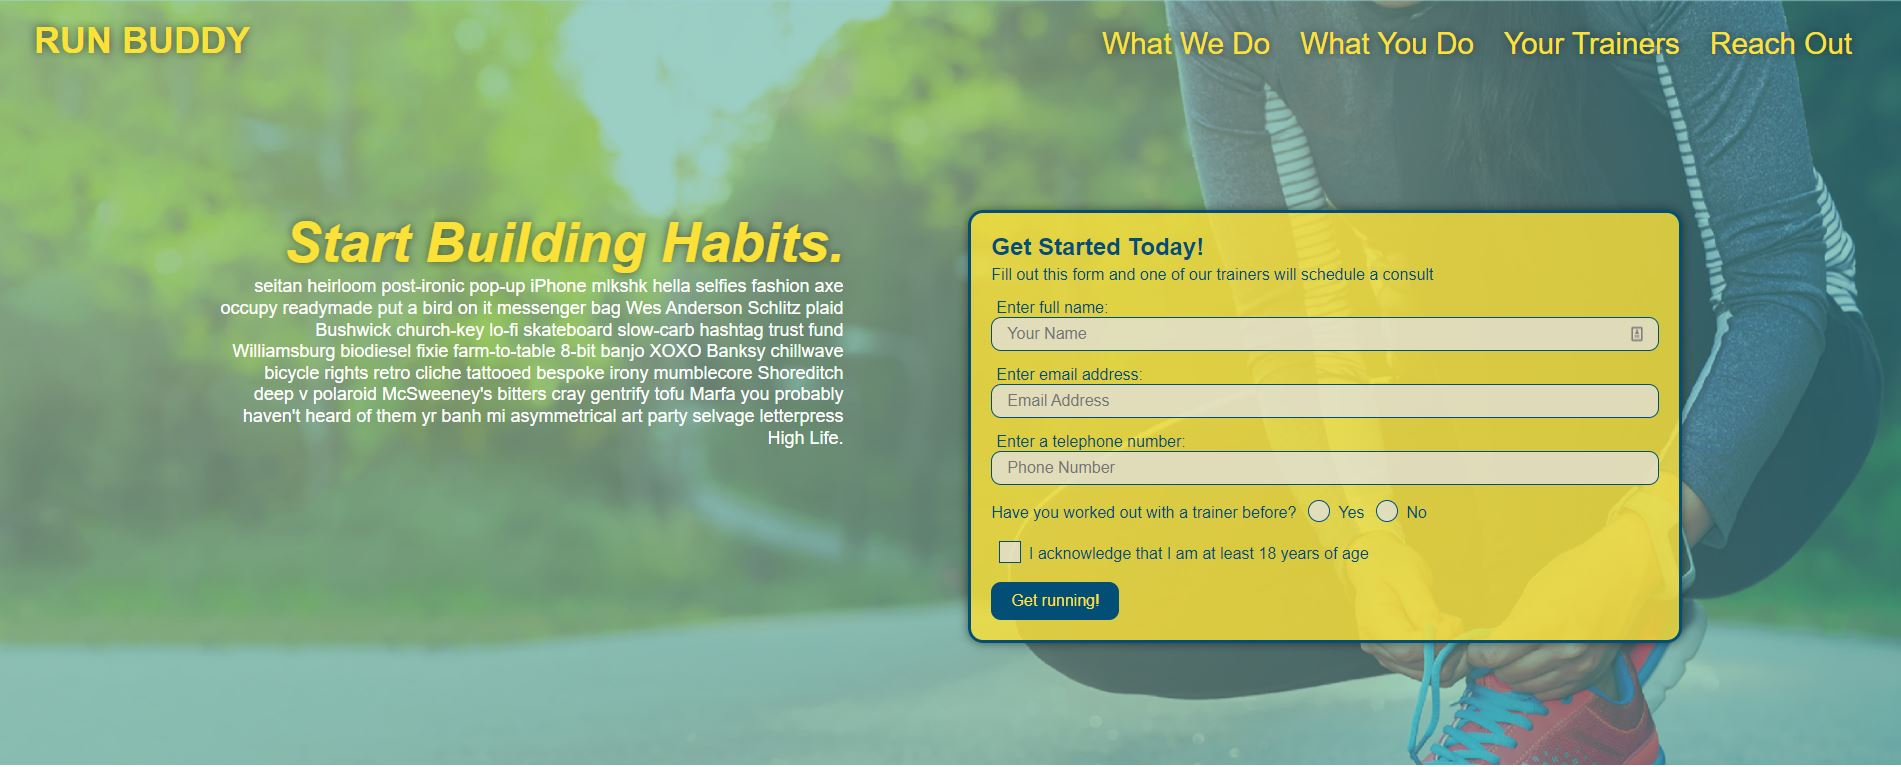
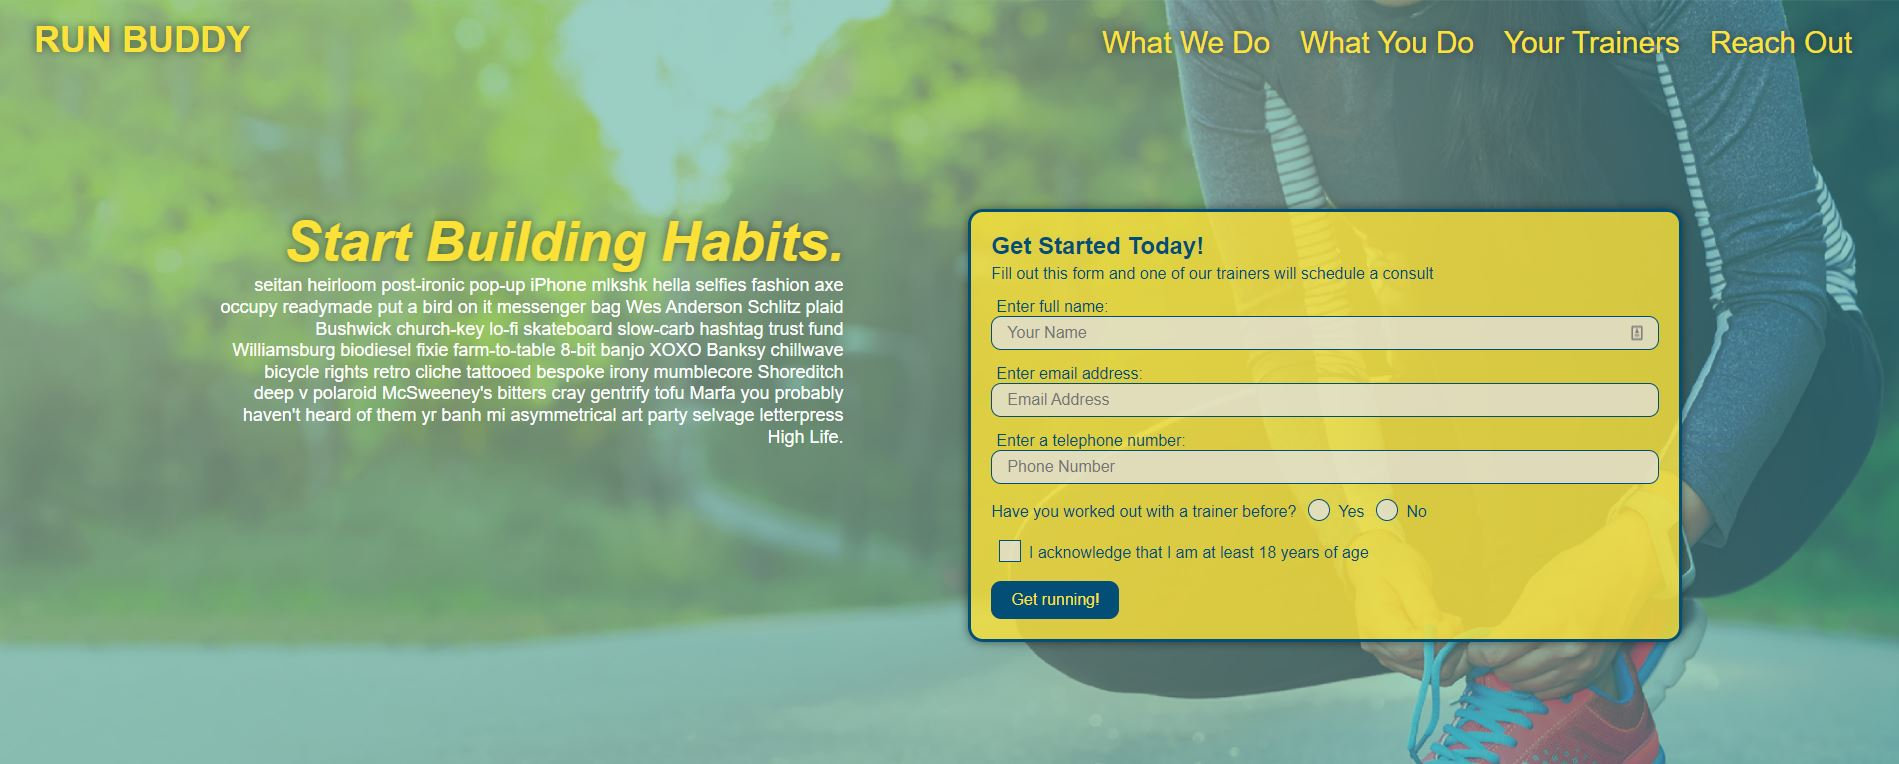
finished main project in work section

diff --git a/assets/css/style.css b/assets/css/style.css
@@ -1,6 +1,5 @@
 :root {
     --primary-color: rgb(0, 122, 204);
-    /* --secondary-color: rgb(204, 173, 0); */
     --secondary-color: rgb(252, 225, 56);
     --tertiary-color: rgb(204, 0, 61);
 }
@@ -24,7 +23,7 @@ header {
 }
 
 header h1 {
-    /* background-color: white; */
+
     padding: 16px 16px 16px 10px;
     border-bottom-right-radius: 50px;
     border-top-right-radius: 50px;
@@ -34,7 +33,6 @@ header h1 a {
     color: var(--secondary-color);
     font-size: 40px;
     text-decoration: none;
-    /* text-shadow: 4px 3px 5px black; */
 
 }
 
@@ -61,20 +59,19 @@ header nav ul li a {
     padding: 10px 15px;
     margin: 0px 15px;
     border-bottom: 3px solid var(--secondary-color);
-    /* text-shadow: -4px 3px 5px black; */
 }
 
 header nav ul li a:hover {
-    text-shadow: -4px 3px 5px black;
+    text-shadow: 4px 3px 5px black;
 }
 
 section {
- /* padding: 60px */
+ display: flex;
+ flex-wrap: wrap;
 }
 
 .hero {
     background-image: url("../images/tevin-arms-open.jpg");
-    /* background-image: url("../images/img2.jpg"); */
     background-size: cover;
     background-position: center 34%;
     padding: 200px 60px;
@@ -88,22 +85,19 @@ section {
     position: absolute;
     top: 400px; right: 60px;
     font-size: 32px;
-    text-shadow: -4px 3px 5px black;
+    text-shadow: 3px 3px 3px var(--secondary-color);
 }
 
 .about-me-p-div {
     display: flex;
     align-items: center;
     margin: 0px auto;
-    width: 100%;
 }
 
 .about-me div p {
     font-size: 20px;
     color: var(--primary-color);
-    /* margin: 0px auto; */
-    /* width: 80%; */
-    max-width: 60ch;
+    max-width: 75ch;
 }
 
 .about-me, .work, .contact-me {
@@ -112,19 +106,10 @@ section {
 
 .title-div {
     background-color: var(--secondary-color);
-    height: 200px;
-    width: 300px;
+    min-height: 200px;
+    width: 20%;
     display: flex;
-}
-
-/* .work {
-    display: flex;
-    flex-wrap: wrap;
-} */
-
-.work-div div {
-    display:flex;
-    flex-wrap: flex;
+    justify-content: flex-end;
 }
 
 .work a {
@@ -134,45 +119,68 @@ section {
     width: 80%;
 }
 
-.run-buddy-img {
-    background-image: url("../images/run-buddy-img.JPG");
-    background-size: cover;
-    width: 750px;
-    height: 300px;
-    border: 3px solid var(--primary-color);
-    opacity: 0.5;
+.work-div {
+    width: 80%;
+    display: flex;
+    justify-content: center;
+    margin: 60px 0px;
 }
 
-.run-buddy-img div {
-    display: block;
+.main-project {
+    border: 4px solid var(--primary-color);
     position: relative;
-    top: 230px; left: 20px;
-    font-size: 20px;
-    /* background-color: var(--secondary-color); */
+}
+
+.main-project div {
+    position: absolute;
+    top: 70%;
+}
+
+.main-project img {
+    height: 300px;
+    filter: grayscale(100);
+    transition: 500ms ease-in-out;
+    display: block;
+}
+
+img:hover {
+    height: 300px;
+    filter: grayscale(0);
+}
+
+.img-text {
+    color: var(--secondary-color);
+    background-color: var(--primary-color);
+    padding: 8px 12px;
+    position: absolute;
+    font-size: 18px
+}
+
+.img-text h4 {
+    font-size: 14px;
 }
 
 .section-title {
-    /* justify-content: center; */
     color: var(--primary-color);
-    font-size: 46px;
+    font-size: 38px;
     border-right: 4px solid var(--primary-color);
     text-align: right;
     padding: 0px 20px 0px;
-    margin: 20px 20px 20px 0px;
-    /* text-align: top; */
+    margin: 20px 20px 20px 20px;
 }
 
 footer ul {
-    /* display: flex;
-    flex-wrap: wrap;
-    justify-content: space-between;
-    align-items: center; */
     padding: 20px 35px;
     width: 100%;
 }
 
+footer {
+    display: flex;
+    flex-wrap: wrap;
+}
+
 .footer-info {
-    width: 100%;
+    width: 80%;
     display: flex;
 }
 
@@ -194,11 +202,10 @@ footer ul li a {
     color: var(--secondary-color);
     border-bottom: 2px solid var(--secondary-color);
     padding-bottom: 10px;
-    /* text-shadow: 0px -4px 5px black; */
 }
 
 footer ul li a:hover {
-    text-shadow: 0px -4px 5px black;
+    text-shadow: 4px 3px 5px black;
 }
 
 footer div {

diff --git a/index.html b/index.html
@@ -56,48 +56,63 @@
                 <div class="title-div">
                     <h2 class="section-title">Work</h2>
                 </div>
+
                 <div class="work-div">
-                    <a href="https://tevinalvord.github.io/run-buddy/">
-                        <div class="run-buddy-img">
-                            <div>
+                    <div class="main-project">
+                        <a href="https://tevinalvord.github.io/run-buddy/" target="_blank"><img src="./assets/images/run-buddy-img.JPG" />
+                            <div class="img-text">
                                 <h3>Run Buddy</h3>
                                 <h4>HTML / CSS</h4>
                             </div>
-                        </div>
-                    </a>
-                    <a href="">
-                        <div>
-                            <div>
+                        </a>
+                    </div>
+                </div>
+
+                <div class="work-div">
+                    <div class="other-projects">
+                        <a href="#" target="_blank"><img src="" />
+                            <div class="img-text">
                                 <h3>Second Project</h3>
                                 <h4>N/A</h4>
                             </div>
-                        </div>
-                    </a>
-                    <a href="">
-                        <div>
-                            <div>
+                        </a>
+                    </div>
+                </div>
+
+                <div class="work-div">
+                    <div class="other-projects">
+                        <a href="#" target="_blank"><img src="" />
+                            <div class="img-text">
                                 <h3>Third Project</h3>
                                 <h4>N/A</h4>
                             </div>
-                        </div>
-                    </a>
-                    <a href="">
-                        <div>
-                            <div>
+                        </a>
+                    </div>
+                </div>
+
+                <div class="work-div">
+                    <div class="other-projects">
+                        <a href="#" target="_blank"><img src="" />
+                            <div class="img-text">
                                 <h3>Fourth Project</h3>
                                 <h4>N/A</h4>
                             </div>
-                        </div>
-                    </a>
-                    <a href="">
-                        <div>
-                            <div>
+                        </a>
+                    </div>
+                </div>
+
+                <div class="work-div">
+                    <div class="other-projects">
+                        <a href="#" target="_blank"><img src="" />
+                            <div class="img-text">
                                 <h3>Fifth Project</h3>
                                 <h4>N/A</h4>
                             </div>
-                        </div>
-                    </a>
+                        </a>
+                    </div>
                 </div>
+
+                
             </section>
         </main>
 
